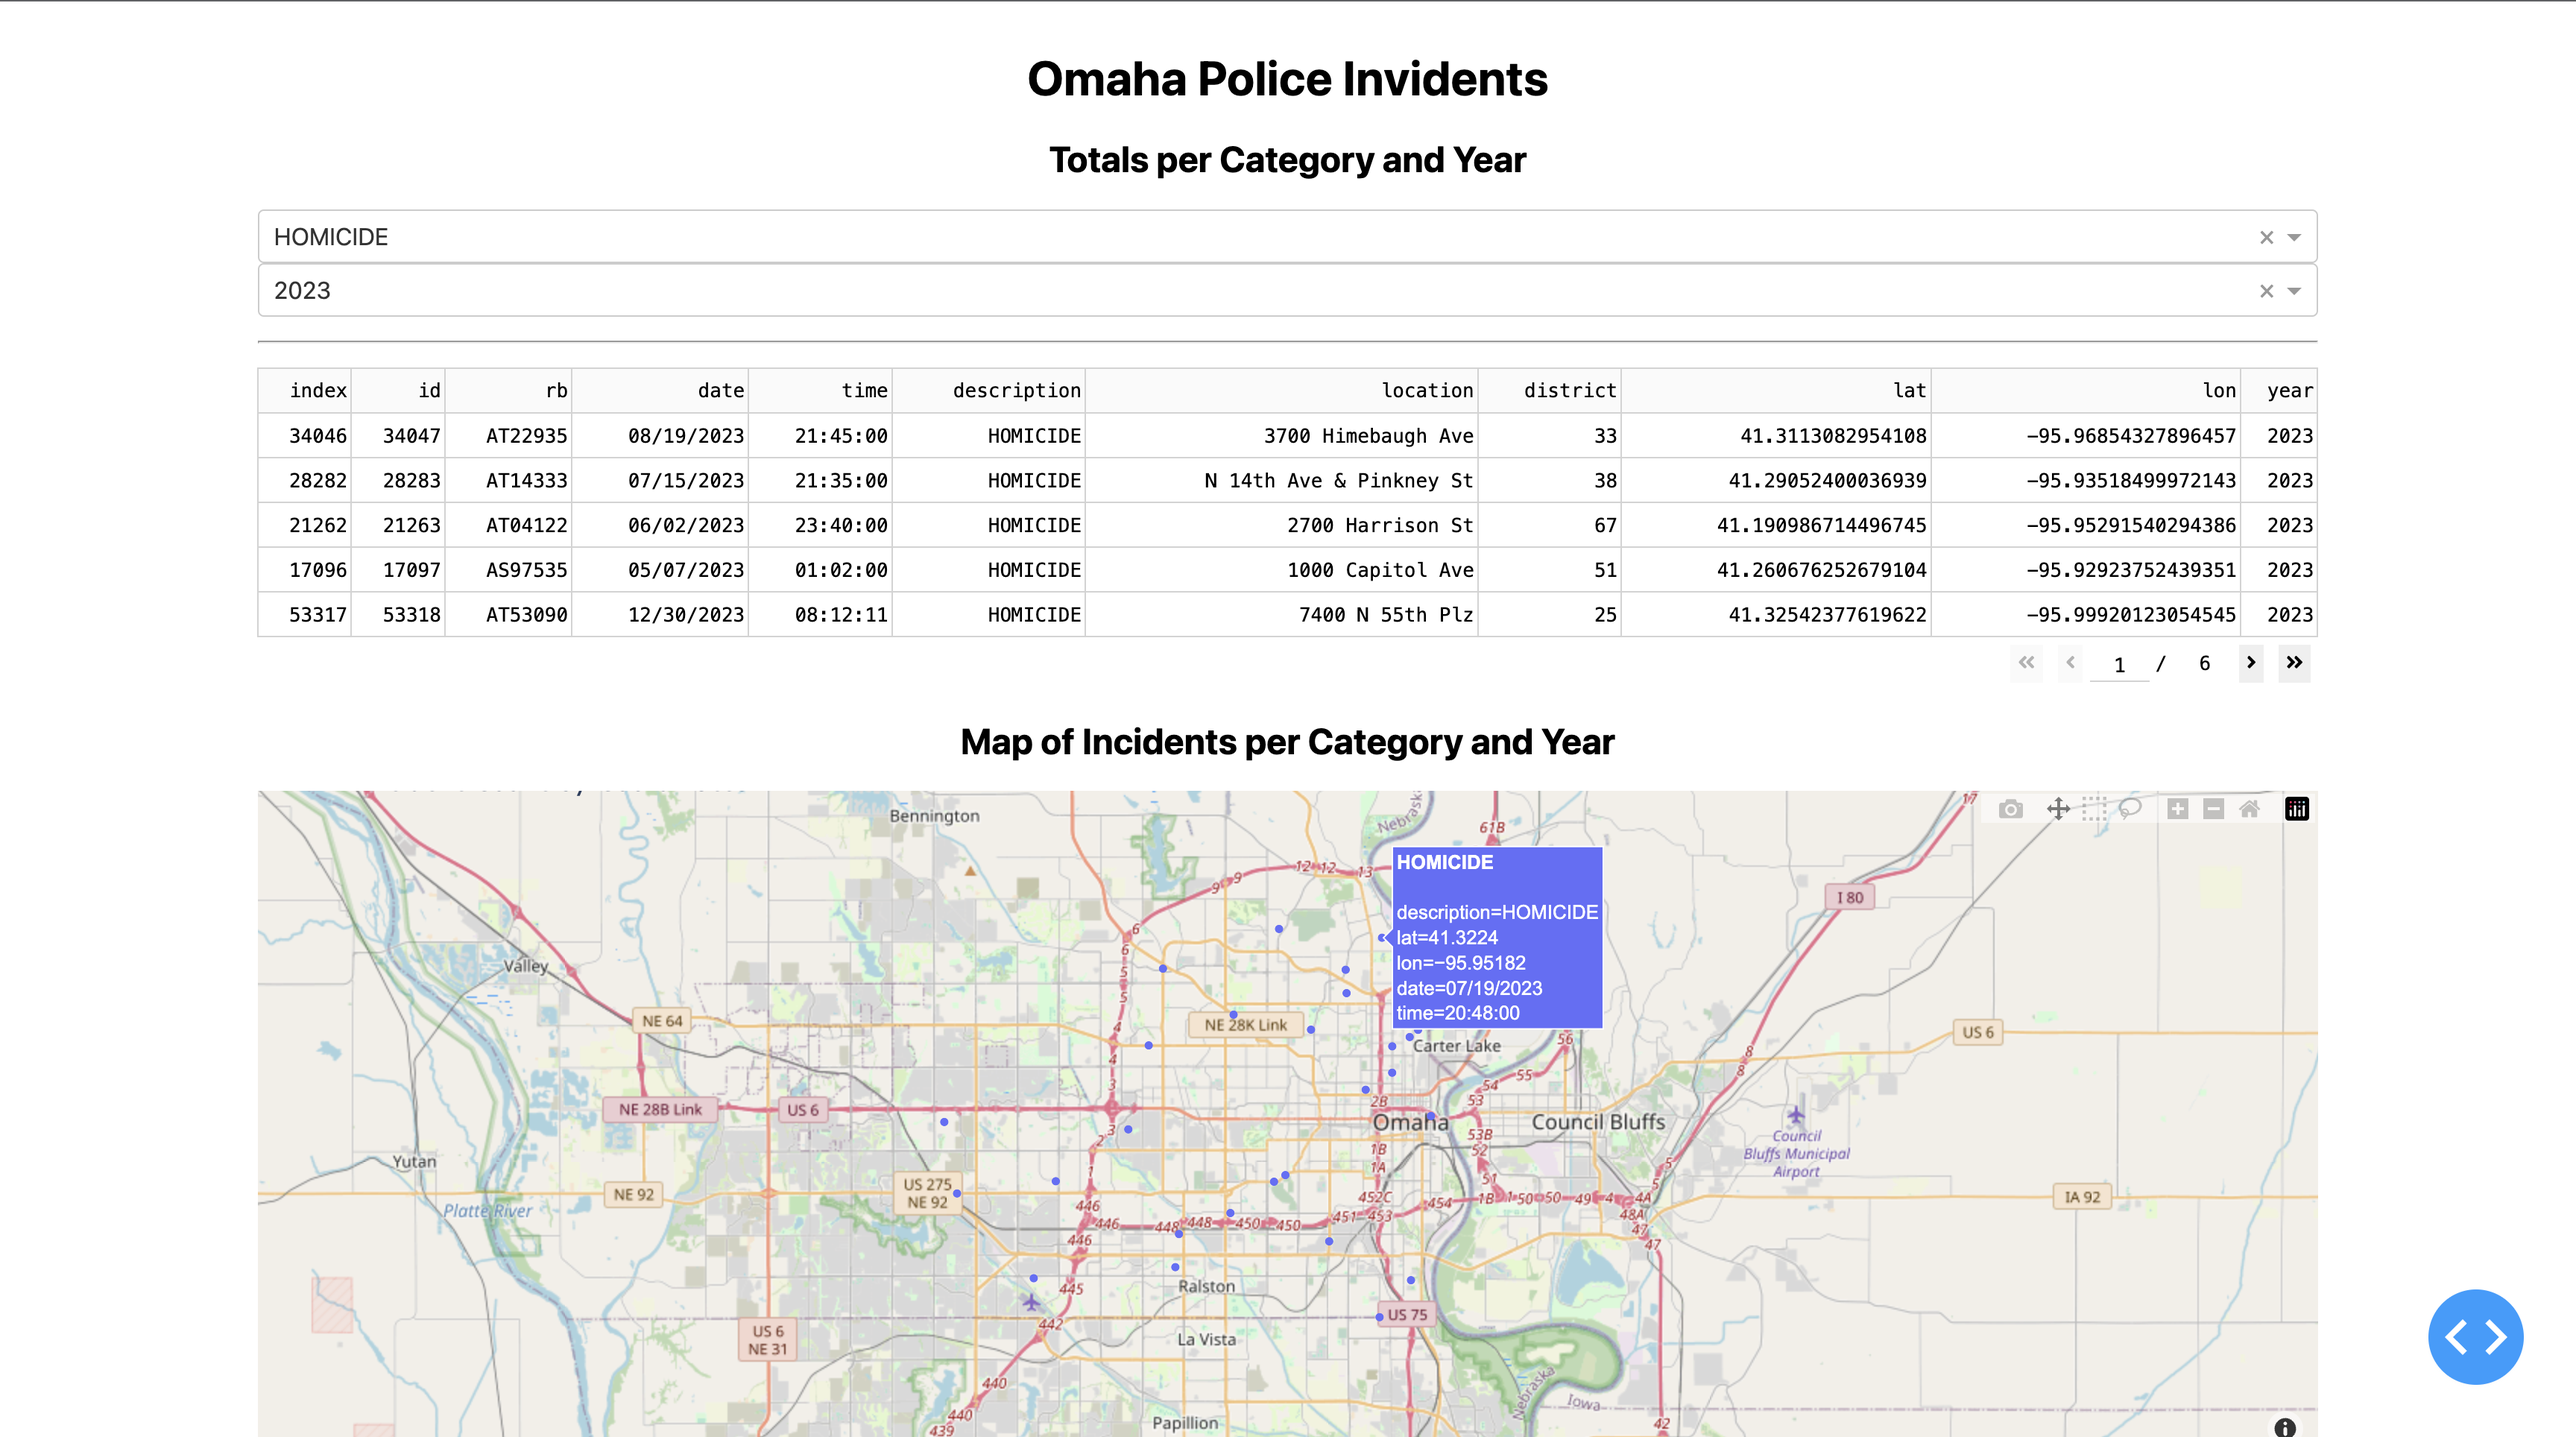
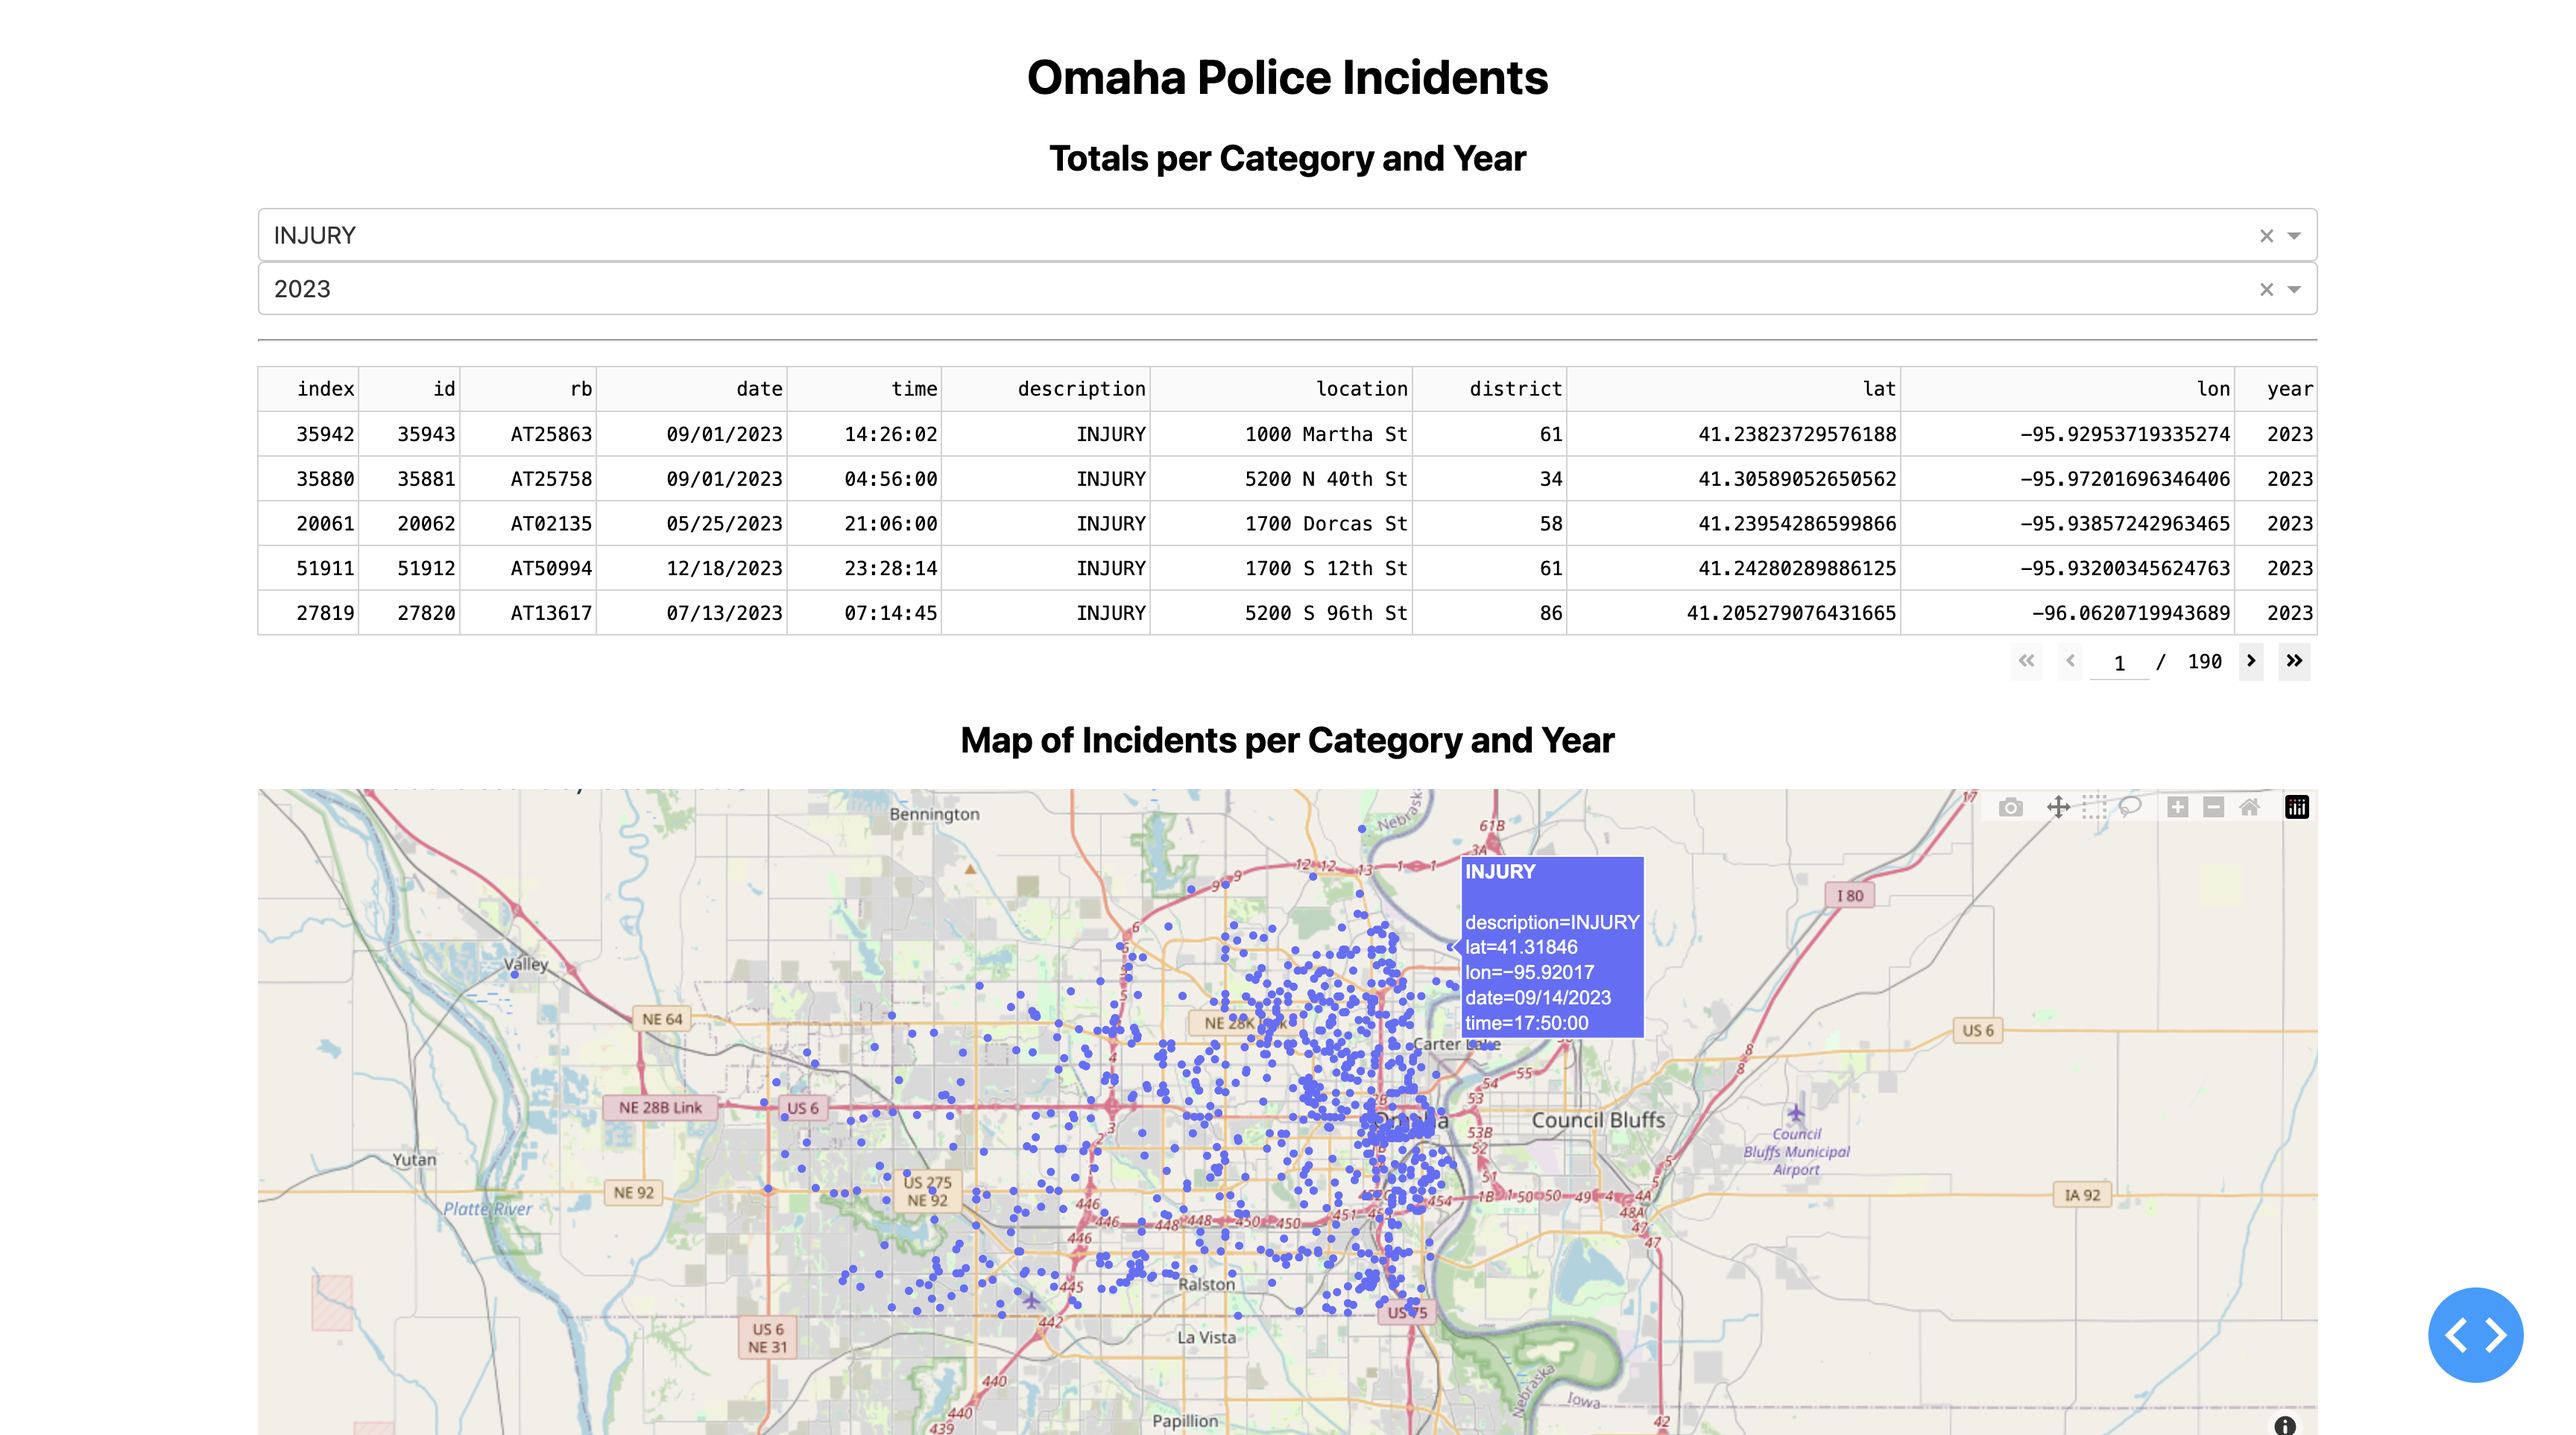
fix page title

diff --git a/app.py b/app.py
@@ -15,7 +15,7 @@ df['year'] = df['date'].str[-4:]
 # Configure HTML layout
 app = Dash(__name__)
 app.layout = html.Div(children = [
-    html.H1(children="Omaha Police Invidents", style={"textAlign":"center"}),
+    html.H1(children="Omaha Police Incidents", style={"textAlign":"center"}),
     html.Div([
         html.H2(children="Totals per Category and Year", style={"textAlign":"center"}),
         dcc.Dropdown(df.sort_values("description").description.unique(), "INJURY", id="dropdown"),
